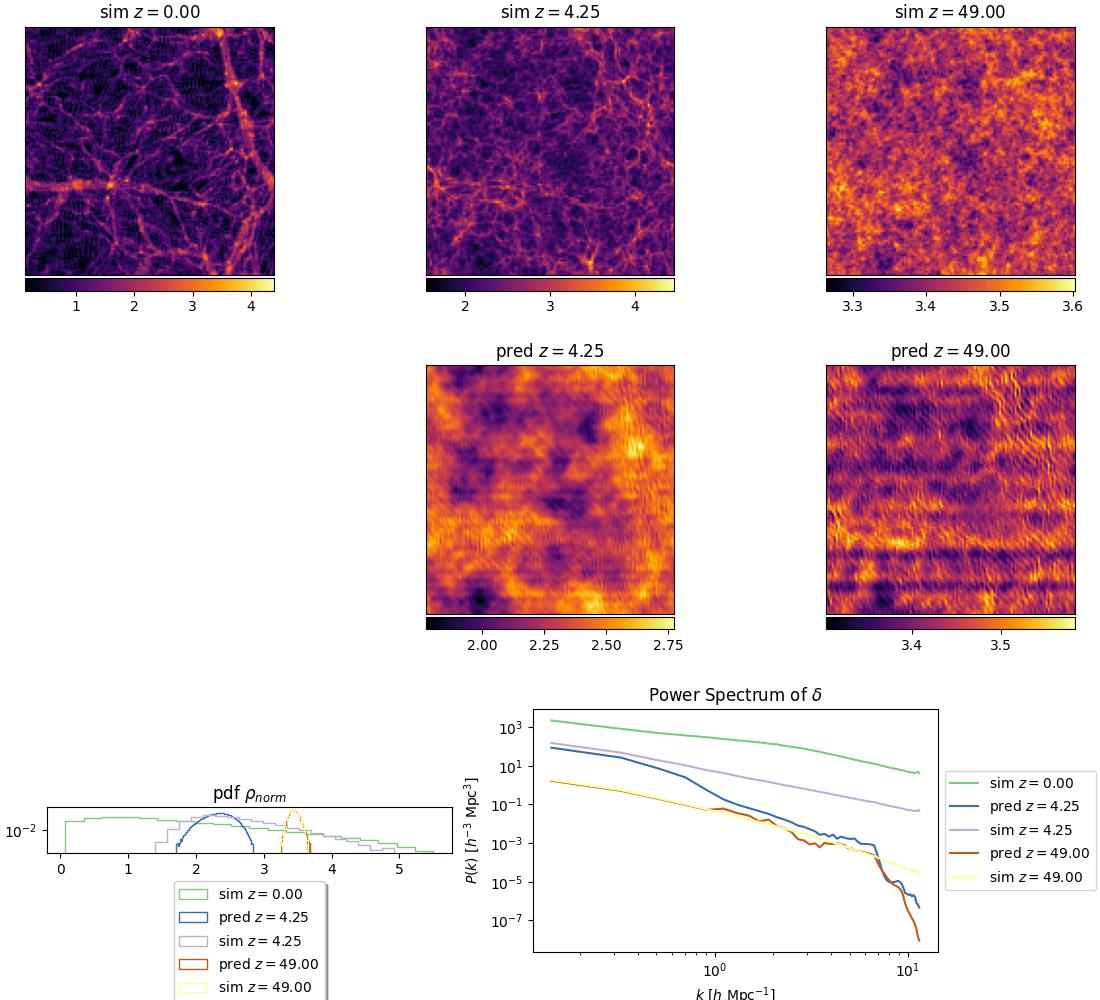
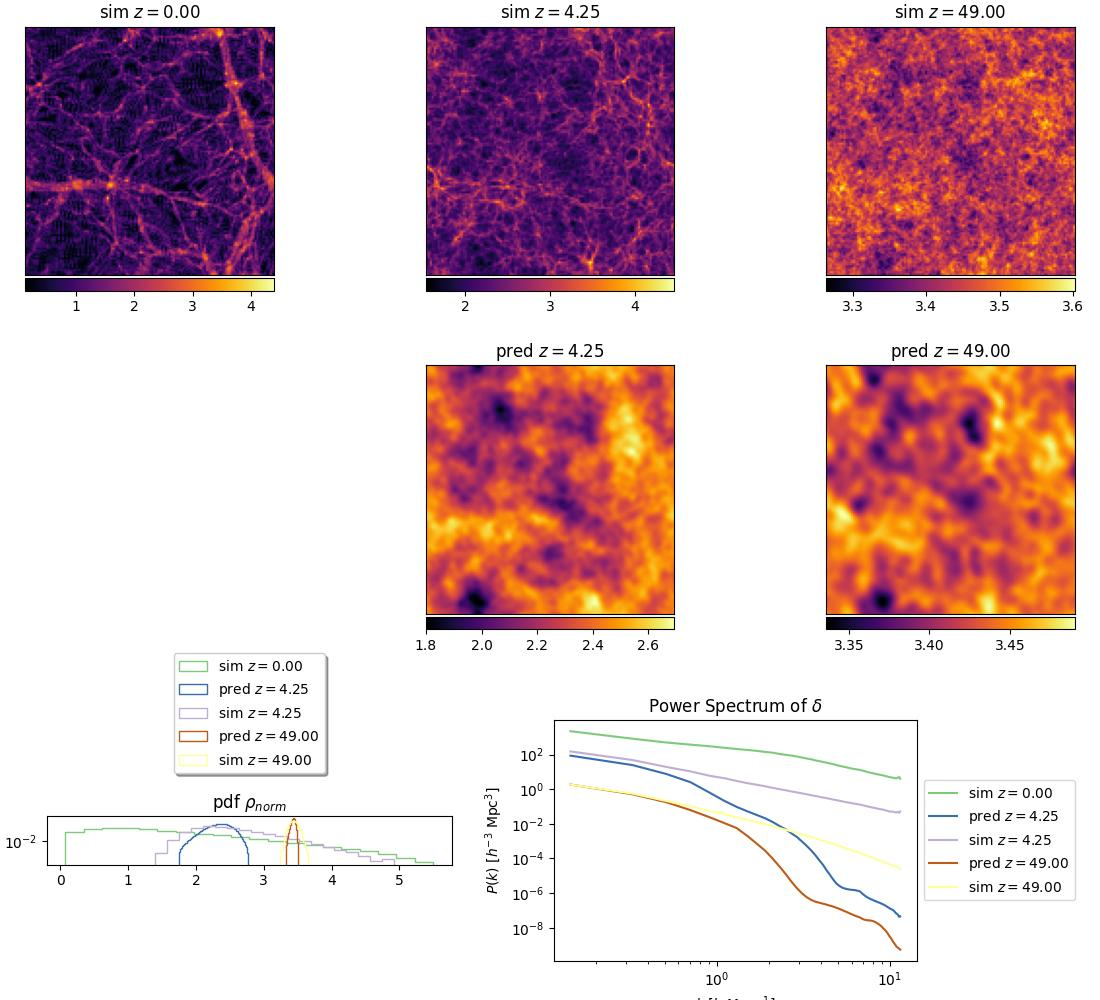
multistep

diff --git a/src/visualize/sequence.py b/src/visualize/sequence.py
@@ -165,7 +165,7 @@ def sequence(
         ax_cdf_pred.legend(loc='center left', bbox_to_anchor=(1, 0.5))
 
     ax_cdf.set_title(r'pdf $\rho_{norm}$')
-    ax_cdf.legend(loc='upper center', bbox_to_anchor=(0.5, -0.45), fancybox=True, shadow=True,)
+    ax_cdf.legend(loc='lower center', bbox_to_anchor=(0.5, 1.745), fancybox=True, shadow=True,)
 
     # plt.tight_layout(rect=[0.03, 0.03, 0.97, 0.97], pad=3.0, w_pad=2.0, h_pad=2.0)
 
